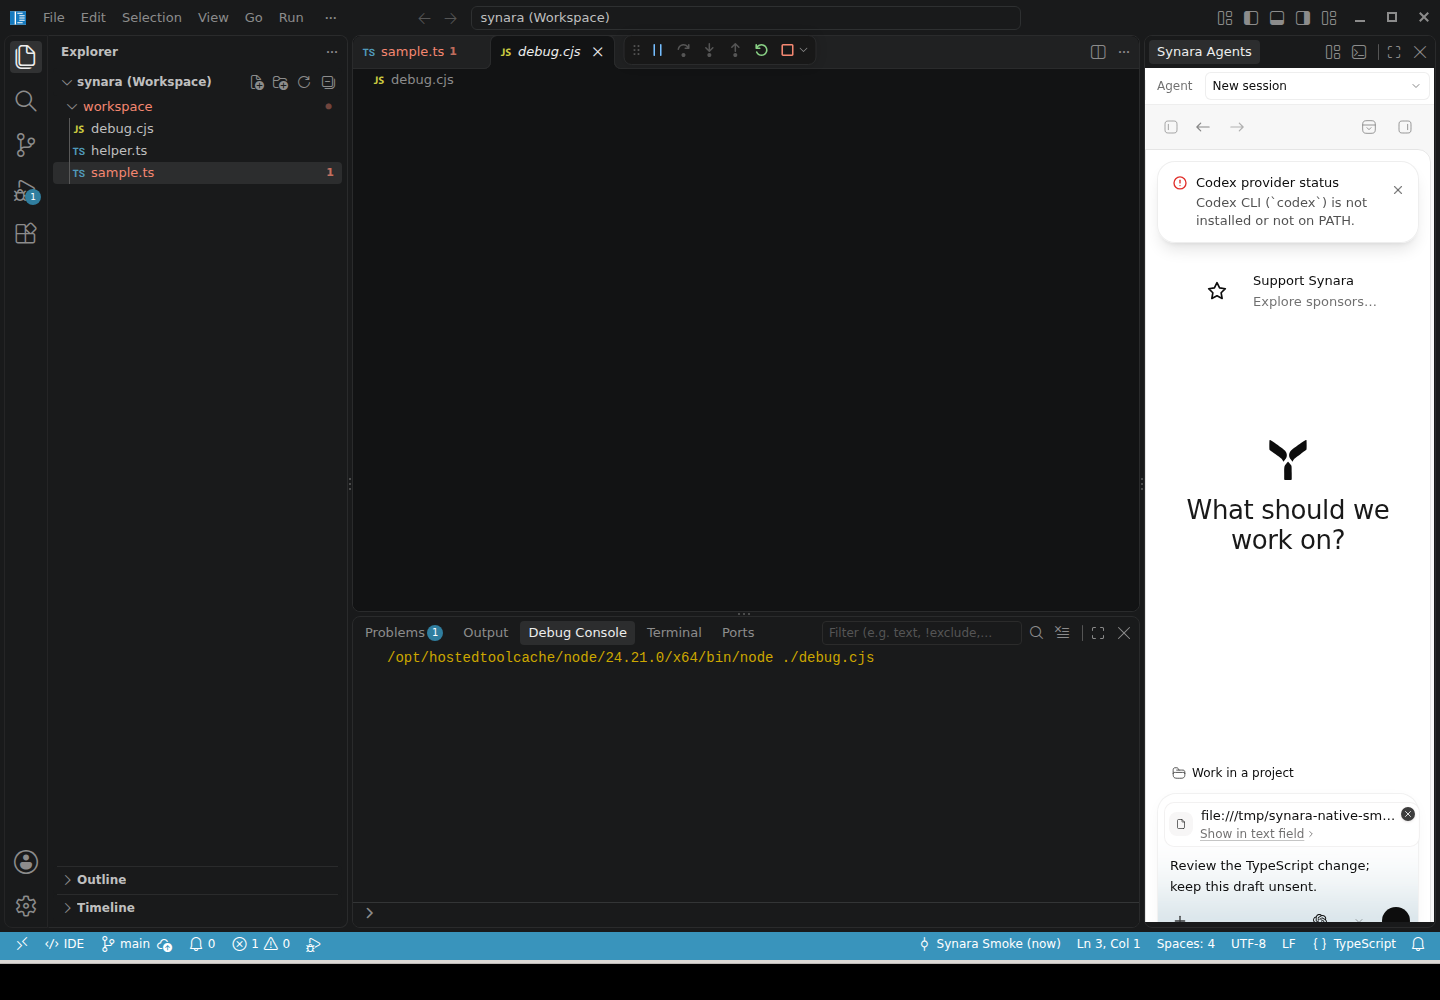
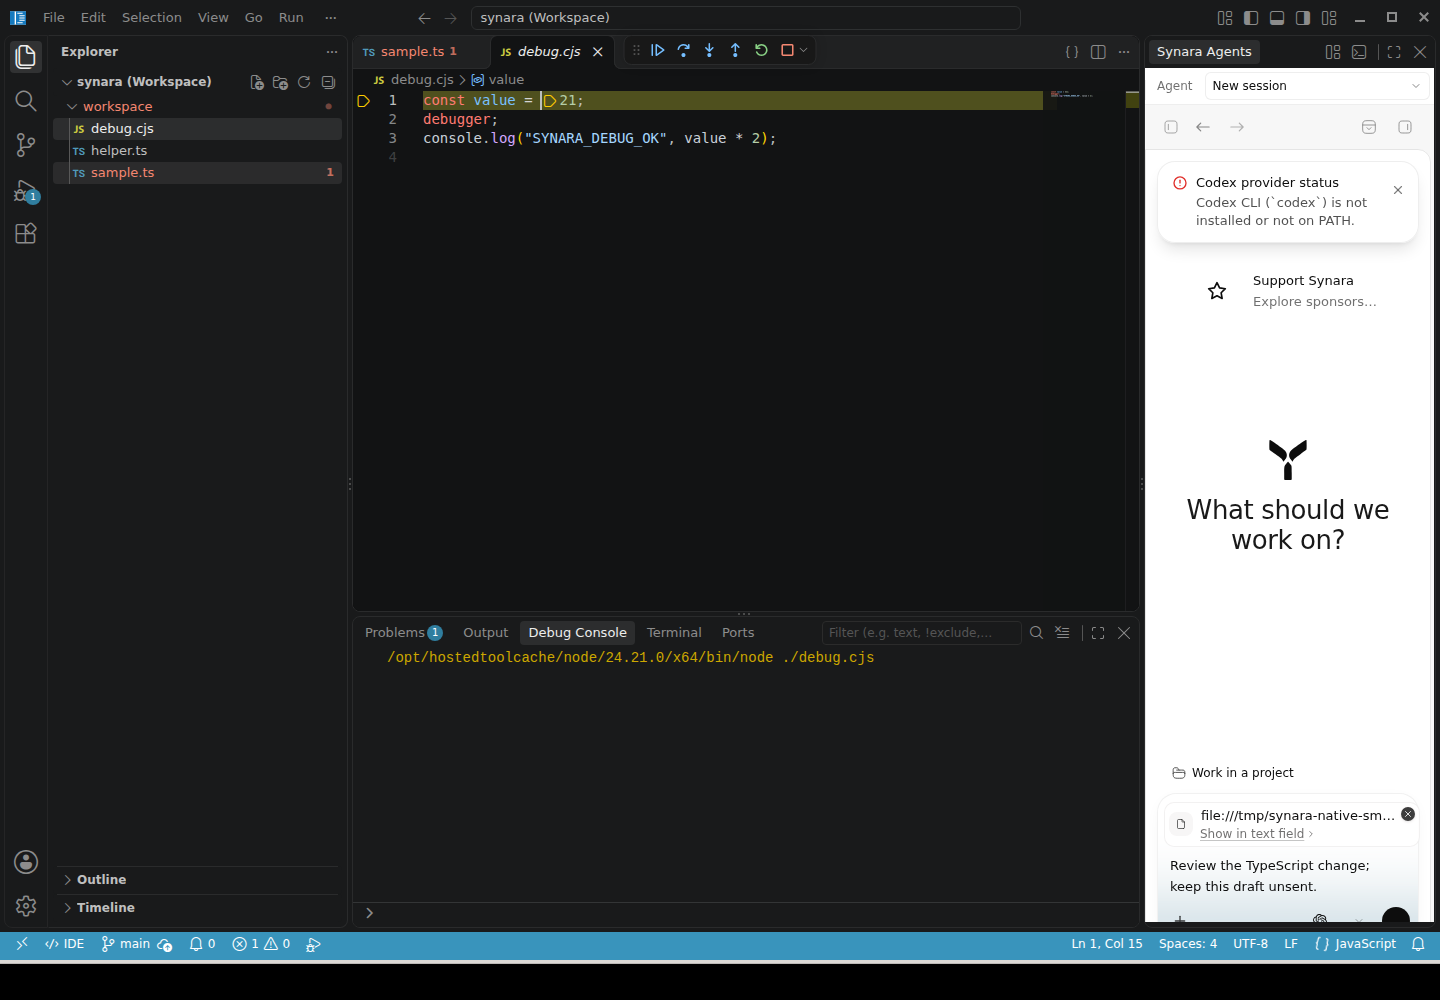
docs(desktop): record passing native IDE acceptance and actual mode-switch GIF

diff --git a/docs/code-oss.md b/docs/code-oss.md
@@ -40,7 +40,7 @@ xvfb-run -a -s '-screen 0 1440x1000x24' node apps/desktop/code-oss/scripts/smoke
 
 ## Real application captures
 
-These captures come from the original and integrated applications, not mockups. The integrated captures from [run 38541504429](https://github.com/Emanuele-web04/synara/actions/runs/38541504429) show actual source editing, TypeScript diagnostics, draft context and a paused debugger. That run passed these checks but stopped at the terminal-focus check; the subsequent fixes and results are tracked in the PR.
+These captures come from the original and integrated applications, not mockups. [Run 38543125228](https://github.com/Emanuele-web04/synara/actions/runs/38543125228) passed the native build, upstream client typecheck and the real Linux acceptance harness: source editing, TypeScript diagnostics/completion/definition, selected-code draft context, debugging and extension-host continuity, dirty buffers, modal stacking, terminal execution across mode switches, and Git. The same run captured the mode-switch recording. This is isolated Linux acceptance, not signed cross-platform release or authenticated provider acceptance.
 
 [Before: original Agent Mode](images/code-oss/before-agent-mode.png)
 
@@ -49,3 +49,9 @@ These captures come from the original and integrated applications, not mockups. 
 ![After: native selection in the existing Synara draft](images/code-oss/after-ide-agent-context.png)
 
 ![After: native JavaScript debugger](images/code-oss/after-ide-debugger.png)
+
+![After: native terminal](images/code-oss/after-ide-terminal.png)
+
+![After: native Source Control](images/code-oss/after-ide-git.png)
+
+![Actual Agent and IDE mode switching](images/code-oss/agent-ide-switch.gif)
